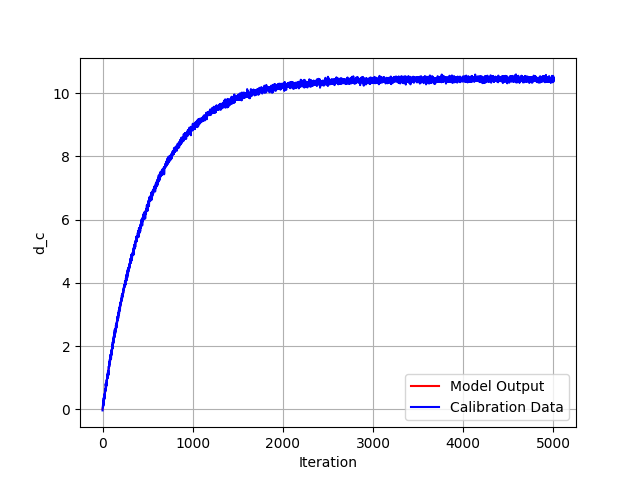
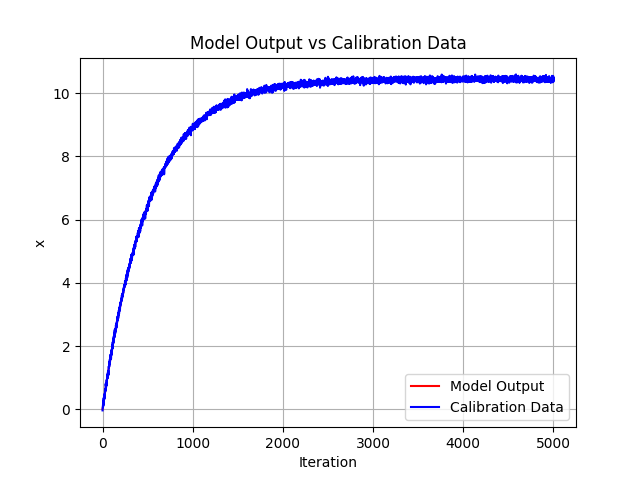
exp 1 remake

Changed region(s): [[0.2812, 0.0625, 0.7188, 0.125], [0.0312, 0.5, 0.0938, 0.5312]]

diff --git a/Assignment_1/parameter_tuning.py b/Assignment_1/parameter_tuning.py
@@ -109,7 +109,8 @@ def runExperimintOne(interval=5.00/10000):
     plt.plot(extracted_data2, label="Calibration Data", color="blue")
     
     plt.xlabel("Iteration")
-    plt.ylabel("d_c")
+    plt.ylabel("x")
+    plt.title("Model Output vs Calibration Data")
     
     plt.legend()
     plt.grid(True)
@@ -119,7 +120,8 @@ def runExperimintOne(interval=5.00/10000):
     plt.figure()
     plt.plot(extracted_data1, label="Model Output", color="red")
     plt.xlabel("Iteration")
-    plt.ylabel("d_c")
+    plt.ylabel("x")
+    plt.title("Model Output")
     
     plt.legend()
     plt.grid(True)
@@ -129,7 +131,8 @@ def runExperimintOne(interval=5.00/10000):
     plt.figure()
     plt.plot(extracted_data2, label="Calibration Output", color="blue")
     plt.xlabel("Iteration")
-    plt.ylabel("d_c")
+    plt.ylabel("x")
+    plt.title("Calibration Data")
     
     plt.legend()
     plt.grid(True)
